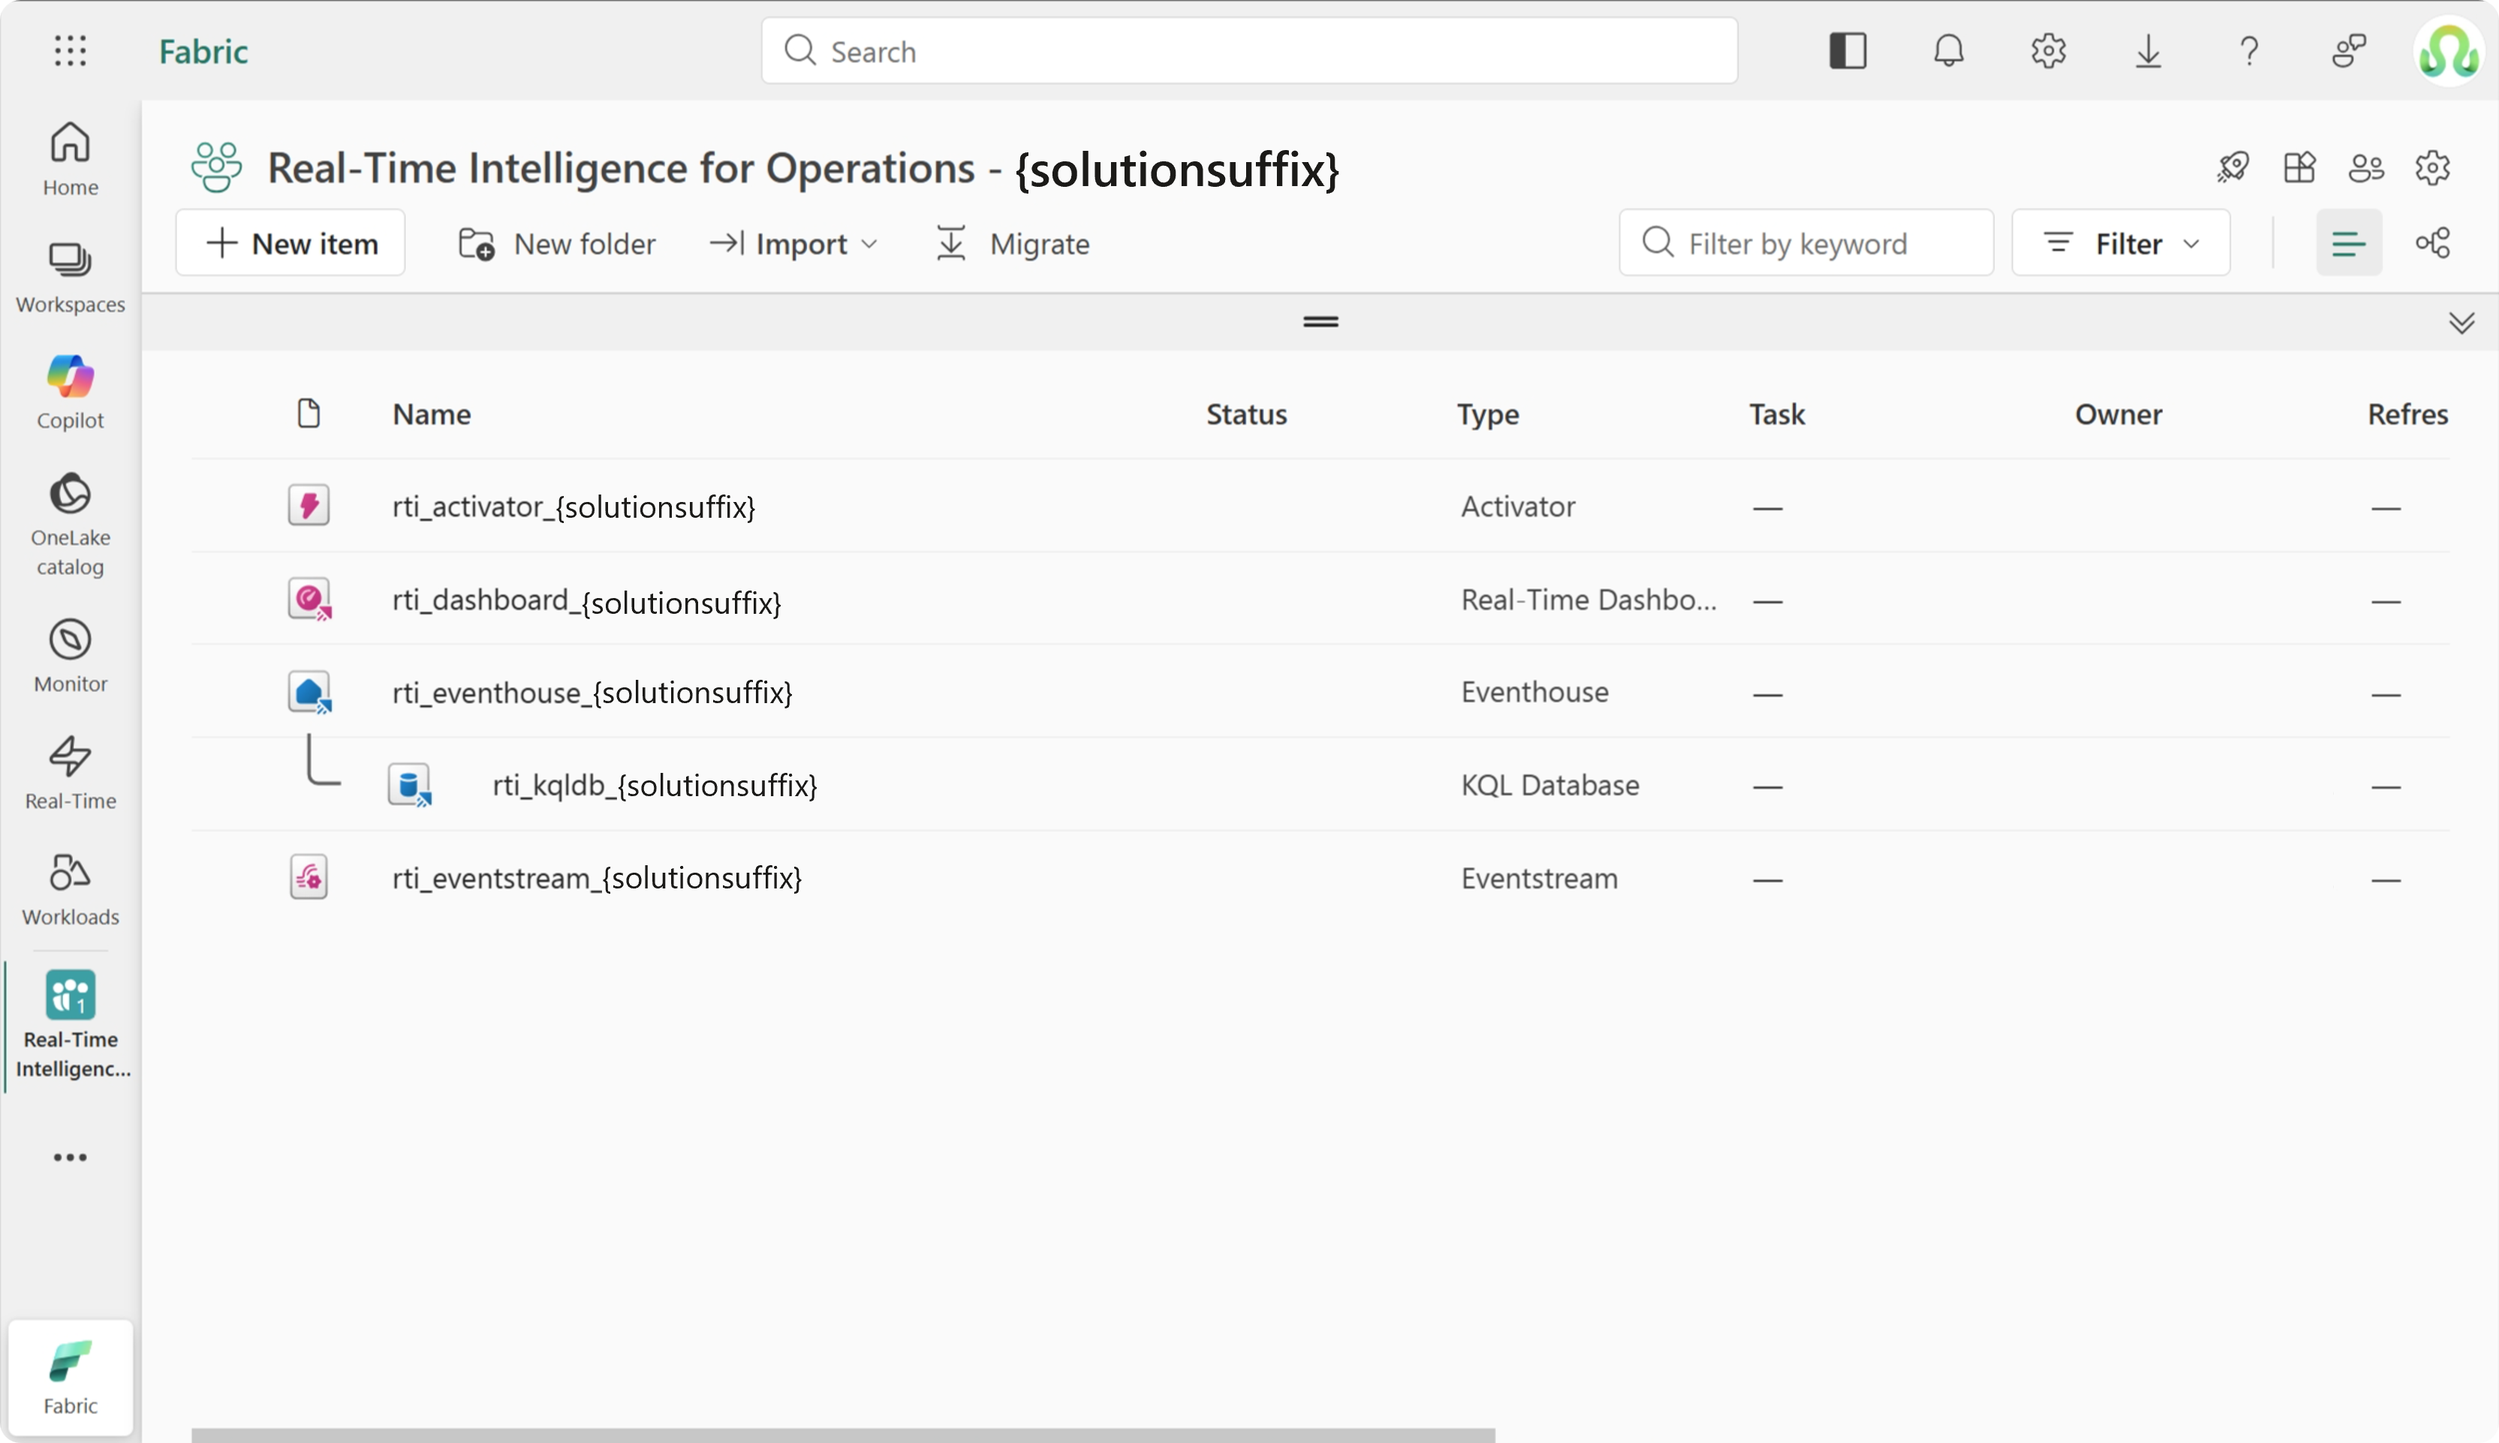
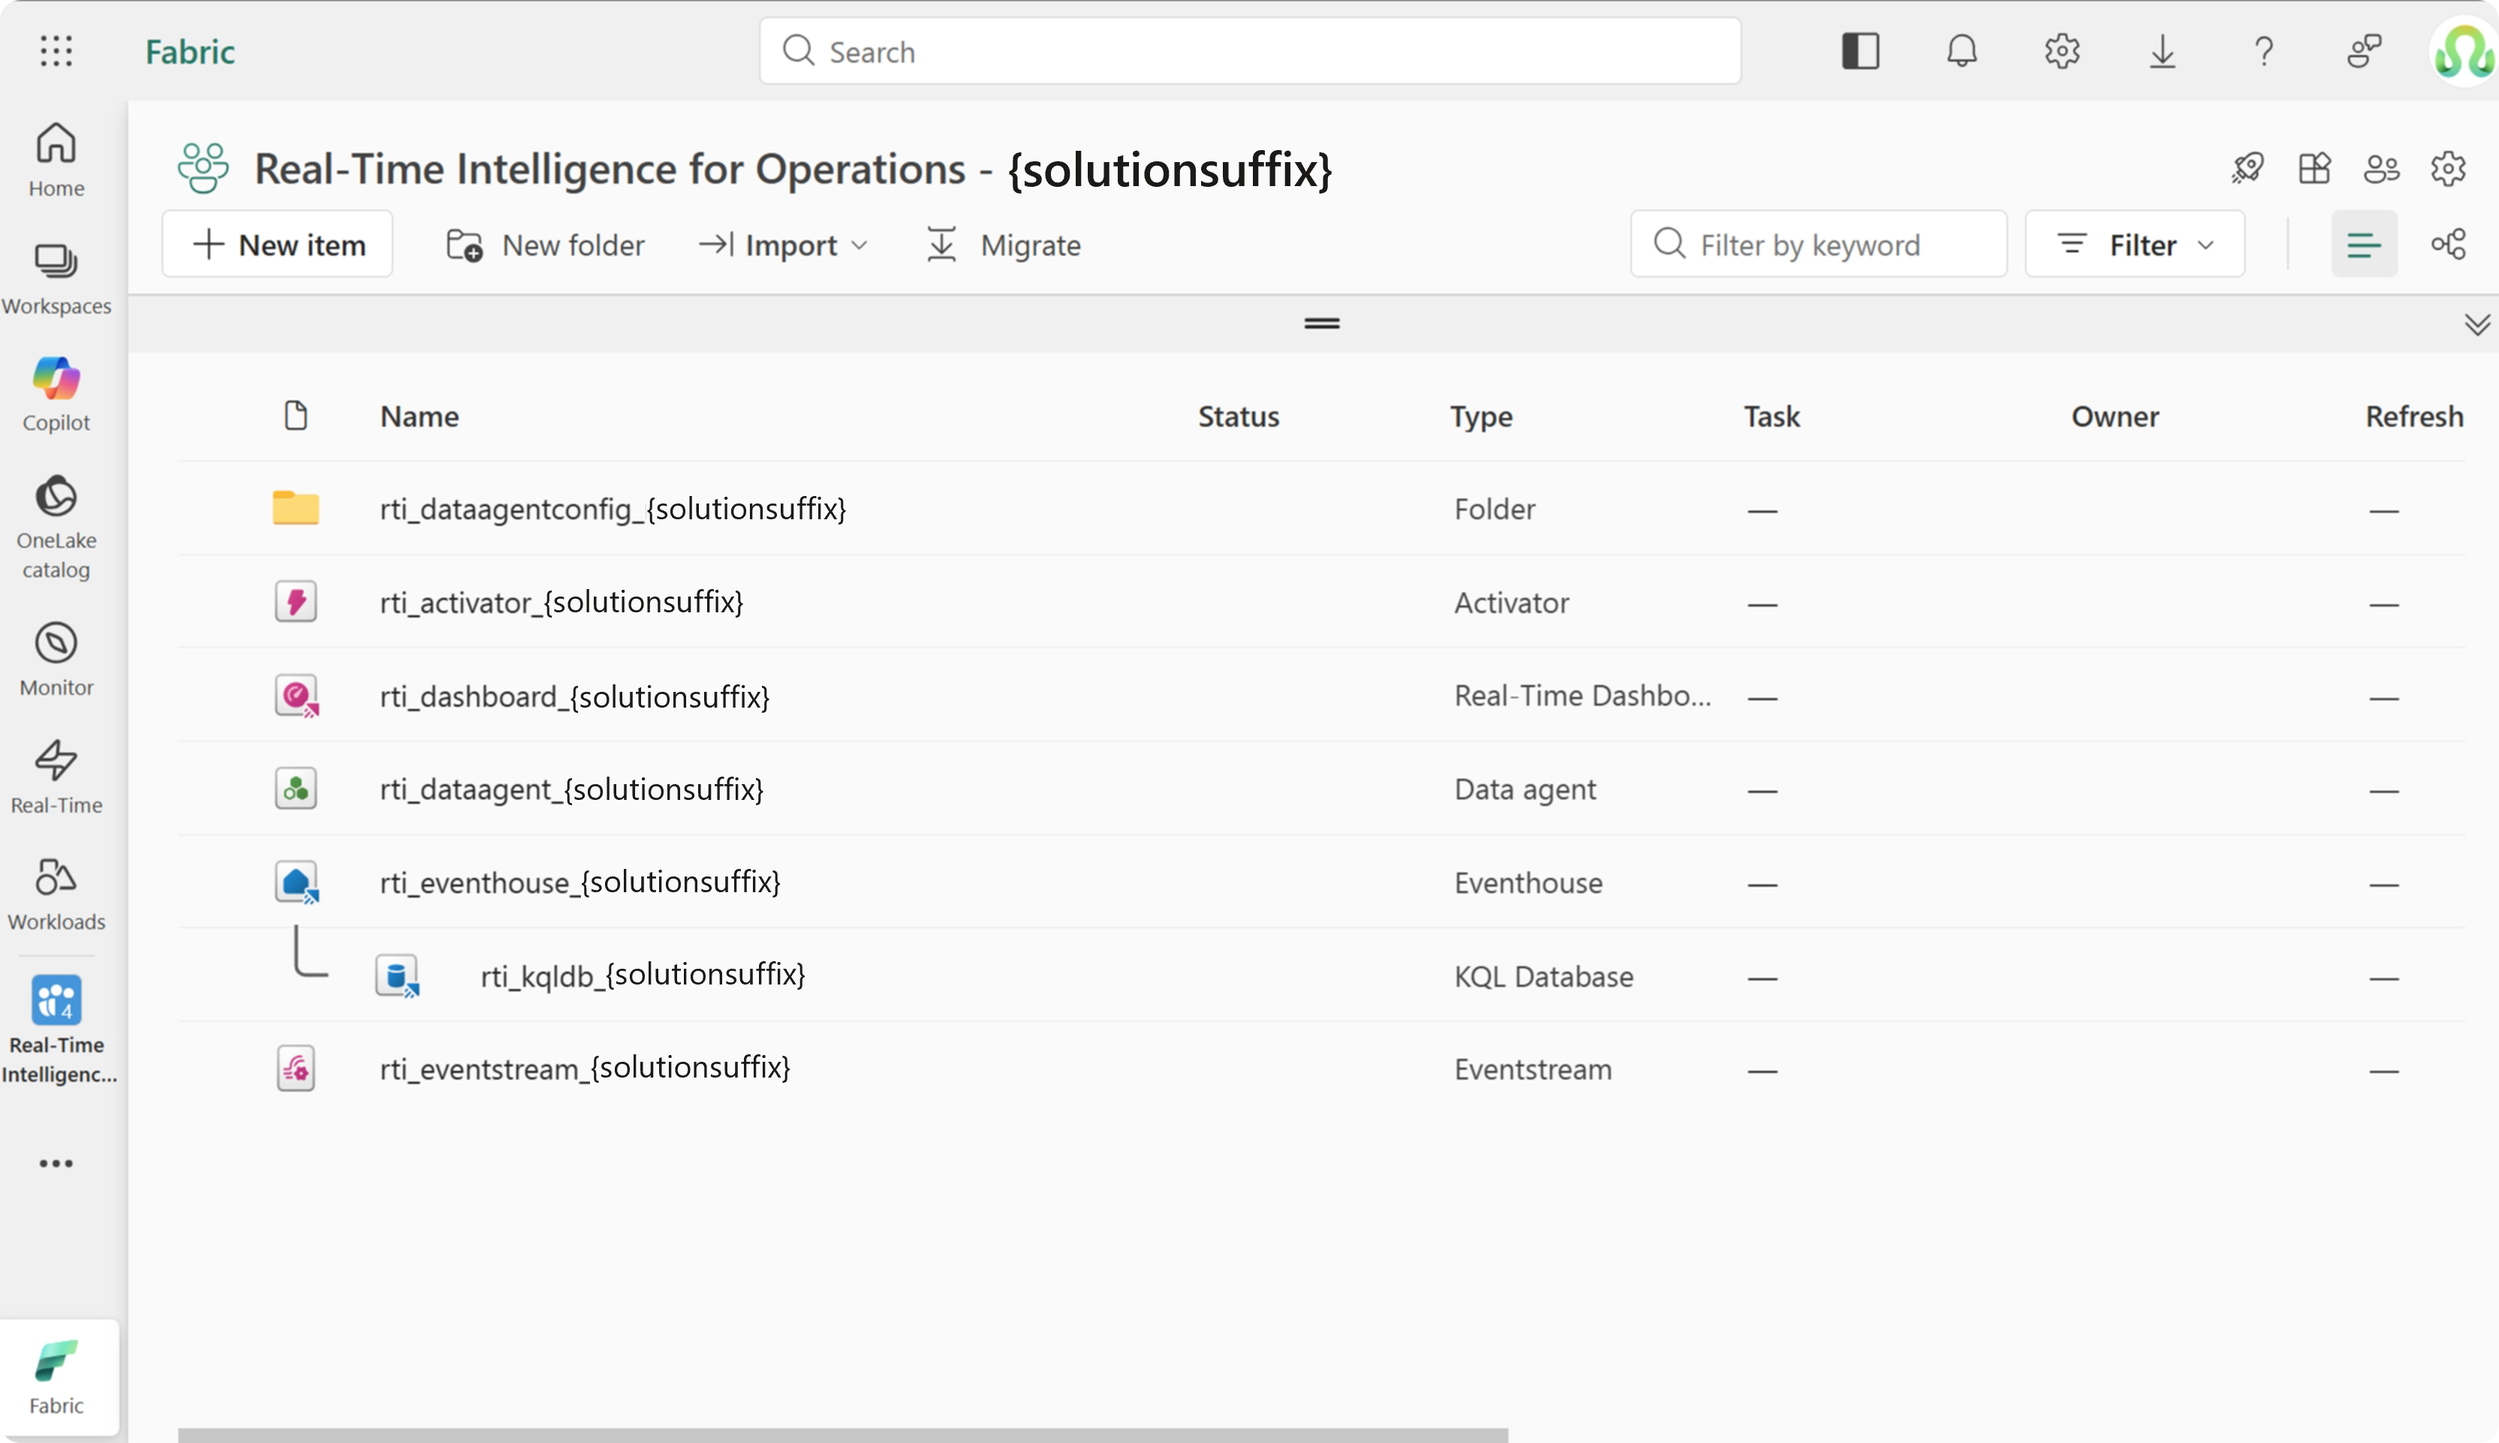
Refactor code structure for improved readability and maintainability

diff --git a/docs/DeploymentGuide.md b/docs/DeploymentGuide.md
@@ -576,15 +576,6 @@ Data pipeline orchestration:
 
 ![Eventstream data flow configuration](./images/deployment/deployment_overview_fabric_eventstream.png)
 
-#### Fabric Environment
-
-Library and compute environment management:
-
-- **Name:** `rti_environment_<env-name><suffix>`
-- **Type:** Fabric Environment for managing Python libraries and dependencies
-- **Configuration:** Pre-configured with required libraries from environment.yml
-- **Purpose:** Provides consistent compute environment for Data Agent operations
-
 #### Data Agent
 
 AI-powered conversational data interface:
@@ -593,15 +584,40 @@ AI-powered conversational data interface:
 - **Type:** Fabric Data Agent for natural language queries
 - **Connected Database:** KQL Database for real-time analytics
 
+![Data Agent overview](./images/deployment/deployment_overview_fabric_dataagent.png)
+
 #### Folder with Data Agent configuration scripts
 
-Folder with script to set up Data Agent configuration (Preview)
+Folder with script to set up Data Agent configuration
 
-- **Notebook:** `rti_notebook_<env-name><suffix>` for configuration and examples
 - **Folder:** `rti_dataagentconfig_<env-name><suffix>` for organizational structure
-- **Purpose:** Enables natural language questions about operational data
+- **Purpose:** Container to host assets to configure the Data Agent
+
+![Data Agent configuration folder](./images/deployment/deployment_overview_fabric_dataagent_configuration_folder.png)
+
+#### Data agent configuration Environment
+
+Library and compute environment management:
+
+- **Name:** `rti_environment_<env-name><suffix>`
+- **Type:** Fabric Environment for managing Python libraries and dependencies
+- **Configuration:** Pre-configured with required libraries from environment.yml
+- **Purpose:** Provides compute environment and libraries set up for Data Agent configuration runbook
+
+![Data Agent configuration folder](./images/deployment/deployment_overview_fabric_dataagent_configuration_environment.png)
+
+#### Data agent configuration Notebook (Preview)
+
+Library and compute environment management:
+
+- **Name:** `rti_notebook_<env-name><suffix>`
+- **Type:** Fabric Environment for managing Python libraries and dependencies
+- **Configuration:** Pre-configured with required code to set up Data Agent
+- **Purpose:** Provides automation to set up configuration of the Data Agent
 
 > **Note:** Data Agent configuration script is a Preview feature and may have limitations. If automated setup fails, refer to the [Fabric Data Agent Guide](./FabricDataAgentGuide.md) for manual configuration.
+
+![Data Agent configuration notebook](./images/deployment/deployment_overview_fabric_dataagent_configuration_notebook.png)
 
 ---
 
